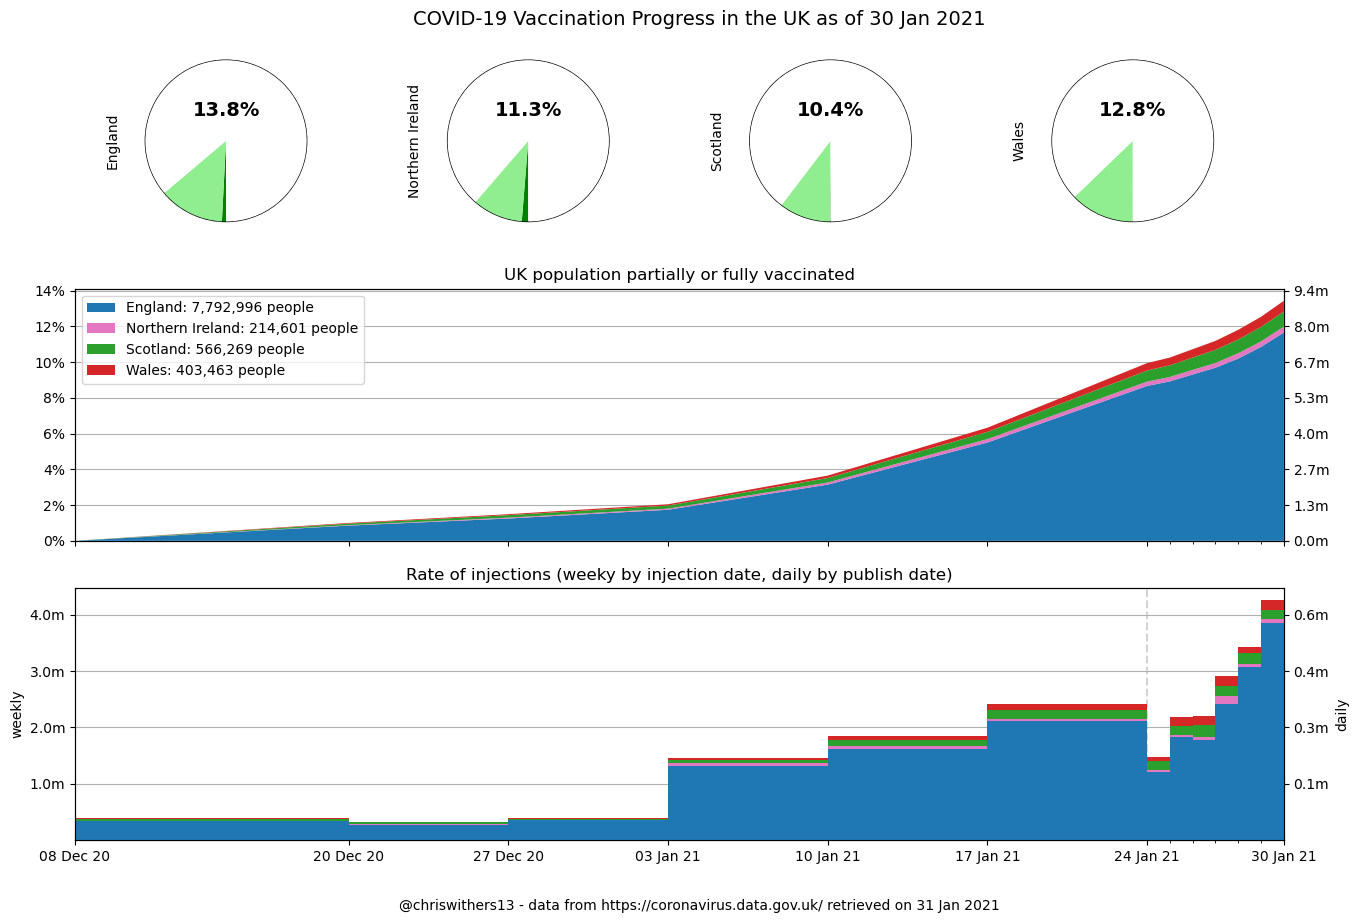
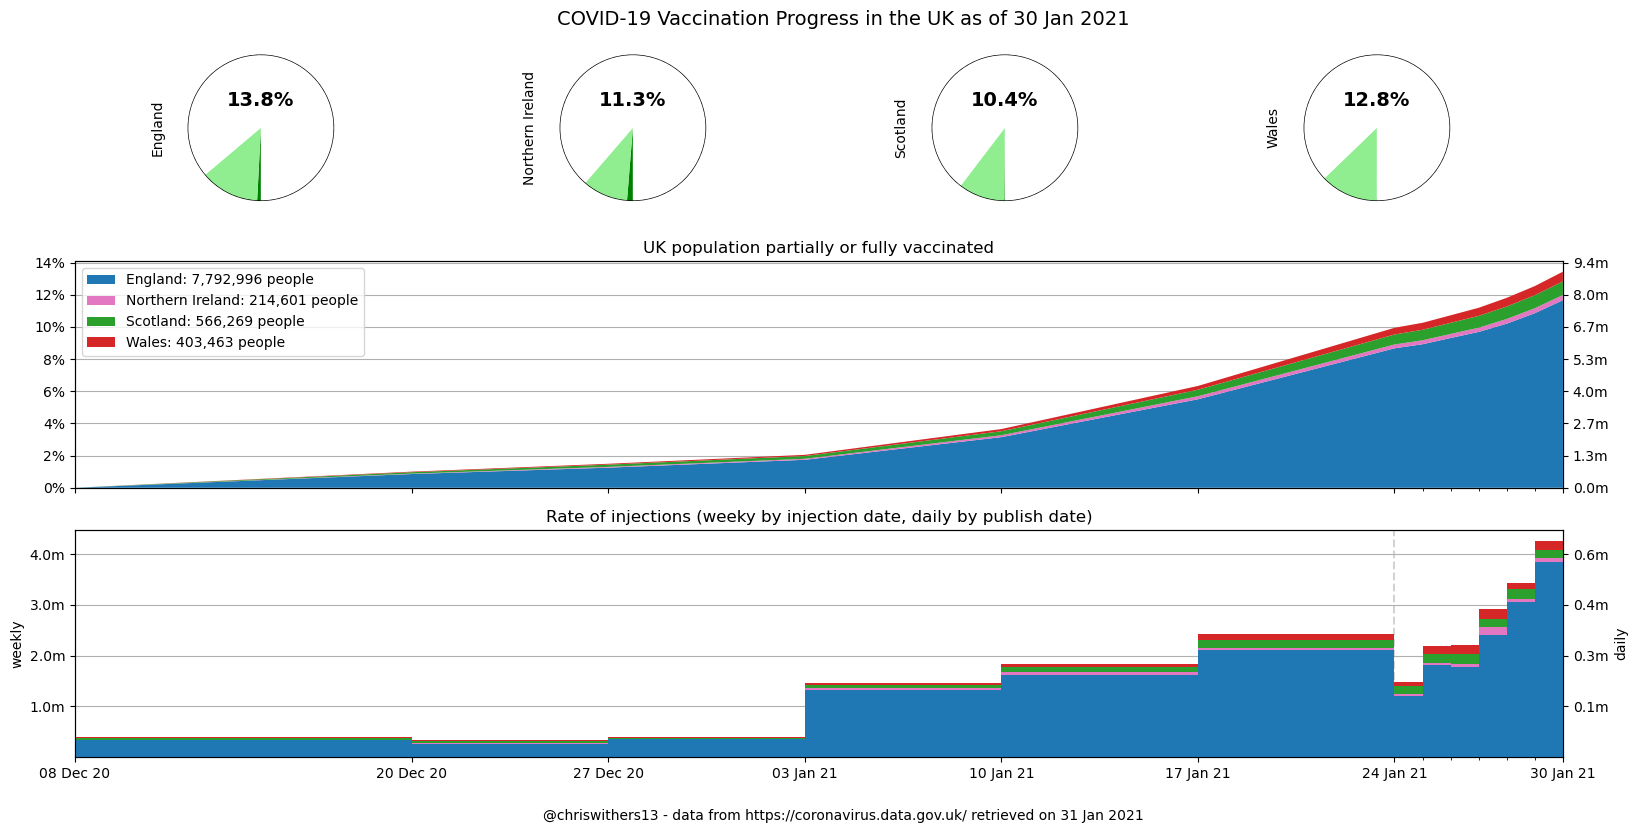
Twitter aspect ratio :-|

diff --git a/vaccination.py b/vaccination.py
@@ -133,7 +133,7 @@ def vaccination_dashboard():
     wales_col = 3
     colors = [plt.cm.tab10(i) for i in [england_col, ni_col, scotland_col, wales_col]]
 
-    fig = plt.figure(figsize=(13, 10), dpi=100)
+    fig = plt.figure(figsize=(16, 9), dpi=100)
     fig.set_facecolor('white')
     fig.suptitle(f'COVID-19 Vaccination Progress in the UK as of {max_date:%d %b %Y}', fontsize=14)
 
